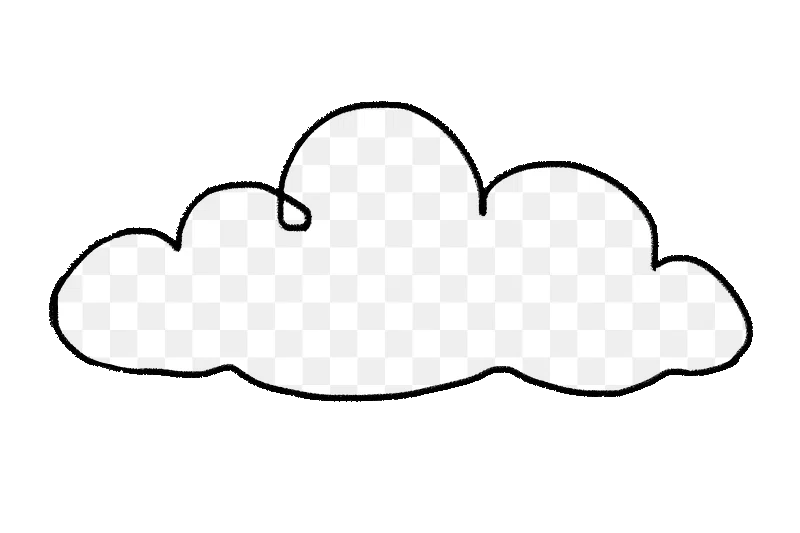
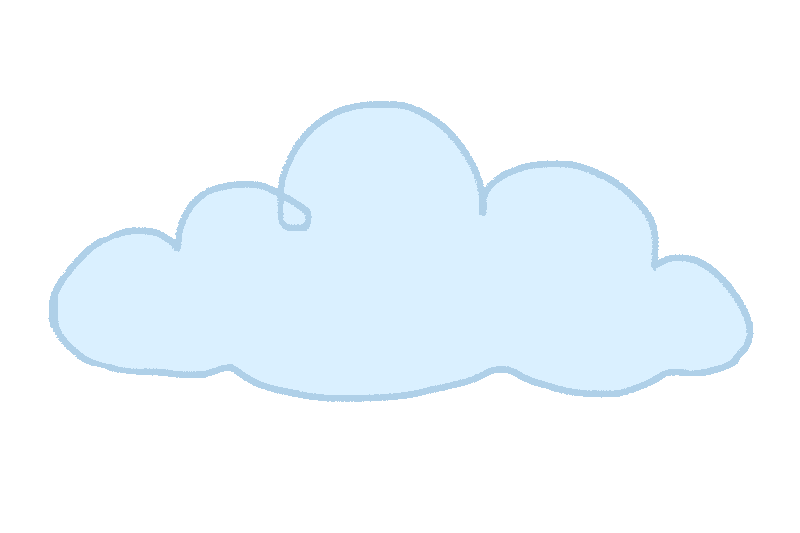
Opaque overlapping cloud clusters + AI lightbulb illustration
Clouds:
- Fully opaque (0.96 globalAlpha) so overlapping looks solid and natural
- Clusters always spawn with 2-3 clouds side-overlapping each other
- Leader + side companion offset horizontally, optional third from opposite side
- 12 cloud pool with 5-band scatter distribution across viewport width
- Light sky blue fill (218,240,255), very light border, transparent exterior

AI lightbulb (bottom-right bg-scene):
- assets/ai-doodle.png: black outline recolored to site green (#2d5a27), transparent bg/interior
- Placed at SVG x=1235 y=690, 160x107px
- Wire 4: dashed gradient line from bulb top (1315,690) up to server rack (1315,312)
- Junction dot at wire origin, gradient fades toward rack

Claude-Session: https://claude.ai/code/session_01TQnFjaHTvdoopMFgx9UFgF

Changed region(s): [[0.0625, 0.1801, 0.9688, 0.7805]]

diff --git a/script.js b/script.js
@@ -145,21 +145,19 @@ if (canvas && !window.location.pathname.includes("admin")) {
   }
 
   class PngCloud {
-    constructor(scatter = false) {
-      this.scale   = Math.random() * 0.52 + 0.22;  // 0.22–0.74 — varied sizes
-      this.speed   = Math.random() * 0.32 + 0.10;
-      this.opacity = Math.random() * 0.30 + 0.45;  // 0.45–0.75
-      this.y = Math.random() * window.innerHeight * 0.72 + 30;
+    constructor(x, y, scale, speed) {
+      this.scale = scale  ?? (Math.random() * 0.48 + 0.28);  // 0.28–0.76
+      this.speed = speed  ?? (Math.random() * 0.28 + 0.12);
+      this.opacity = 0.96; // fully opaque — overlapping clouds should look solid
+      this.y = y ?? (Math.random() * window.innerHeight * 0.78 + 20);
       const hw = (CLOUD_W * this.scale) / 2;
-      this.x = scatter
-        ? Math.random() * (window.innerWidth + hw * 2) - hw
-        : window.innerWidth + hw + 20;
-      const n = Math.floor(Math.random() * 3) + 1;
+      this.x = x ?? (Math.random() * (window.innerWidth + hw * 2) - hw);
+      const n = Math.floor(Math.random() * 2) + 1;
       this.birds = [];
       for (let i = 0; i < n; i++) {
-        const bx = this.x + (Math.random() - 0.5) * CLOUD_W * this.scale * 1.2;
-        const by = this.y - CLOUD_H * this.scale * 0.38 - Math.random() * 45;
-        this.birds.push(new DoodleBird(bx, by, this.speed + (Math.random() - 0.5) * 0.08));
+        const bx = this.x + (Math.random() - 0.5) * CLOUD_W * this.scale * 1.1;
+        const by = this.y - CLOUD_H * this.scale * 0.42 - Math.random() * 38;
+        this.birds.push(new DoodleBird(bx, by, this.speed + (Math.random() - 0.5) * 0.07));
       }
     }
     updateColor() {}
@@ -176,48 +174,62 @@ if (canvas && !window.location.pathname.includes("admin")) {
       const iw = CLOUD_W * this.scale, ih = CLOUD_H * this.scale;
       ctx.save();
       ctx.globalAlpha = this.opacity;
-      ctx.shadowColor    = "rgba(0,0,0,0.22)";
-      ctx.shadowBlur     = 18 * this.scale;
-      ctx.shadowOffsetX  = 2;
-      ctx.shadowOffsetY  = 7 * this.scale;
+      ctx.shadowColor   = "rgba(0,0,0,0.18)";
+      ctx.shadowBlur    = 14 * this.scale;
+      ctx.shadowOffsetX = 1;
+      ctx.shadowOffsetY = 5 * this.scale;
       ctx.drawImage(cloudImg, this.x - iw / 2, this.y - ih / 2, iw, ih);
       ctx.restore();
-      this.birds.forEach(b => b.draw(this.opacity * 0.75));
+      this.birds.forEach(b => b.draw(0.72));
     }
   }
 
-  function spawnCloud(scatter = false) {
-    const c = new PngCloud(scatter);
-    const group = [c];
-    // 35% chance: add 1-2 companion clouds close by for natural layered overlap
-    if (Math.random() < 0.35) {
-      const companion = new PngCloud(scatter);
-      companion.x = c.x + (Math.random() - 0.4) * 130;
-      companion.y = c.y + (Math.random() - 0.5) * 90;
-      companion.scale = c.scale * (Math.random() * 0.35 + 0.55);
-      companion.speed = c.speed + (Math.random() - 0.5) * 0.06;
-      group.push(companion);
-      if (Math.random() < 0.40) {
-        const c2 = new PngCloud(scatter);
-        c2.x = c.x + (Math.random() - 0.5) * 200;
-        c2.y = c.y + (Math.random() - 0.5) * 70;
-        c2.scale = c.scale * (Math.random() * 0.3 + 0.45);
-        c2.speed = c.speed + (Math.random() - 0.5) * 0.05;
-        group.push(c2);
-      }
+  // Build clusters: leader + 1-2 side-overlapping companions
+  // Groups placed at left, mid-left, centre, mid-right, right bands on scatter
+  function spawnCluster(scatter = false) {
+    const vw = window.innerWidth;
+    // For scatter: pick a band (0-4) so clusters spread left/mid/right
+    let baseX;
+    if (scatter) {
+      const band = Math.floor(Math.random() * 5);  // 0..4
+      baseX = (band / 4) * vw;
+    } else {
+      baseX = vw + 260;  // spawn off right edge
     }
+    const baseY   = Math.random() * window.innerHeight * 0.72 + 30;
+    const baseScl = Math.random() * 0.38 + 0.34;  // 0.34–0.72
+    const baseSpd = Math.random() * 0.24 + 0.12;
+
+    const leader = new PngCloud(baseX, baseY, baseScl, baseSpd);
+    const group  = [leader];
+
+    // Always add at least one side companion (left or right overlap)
+    const sideDir   = Math.random() < 0.5 ? 1 : -1;
+    const sideOffX  = sideDir * (CLOUD_W * baseScl * (Math.random() * 0.28 + 0.22));
+    const sideOffY  = (Math.random() - 0.5) * 55;
+    const sideScale = baseScl * (Math.random() * 0.32 + 0.58);
+    group.push(new PngCloud(baseX + sideOffX, baseY + sideOffY, sideScale, baseSpd + (Math.random()-0.5)*0.05));
+
+    // 55% chance: third cloud from opposite side for sandwich overlap
+    if (Math.random() < 0.55) {
+      const offX2  = -sideDir * (CLOUD_W * baseScl * (Math.random() * 0.20 + 0.14));
+      const offY2  = (Math.random() - 0.5) * 45;
+      const scl2   = baseScl * (Math.random() * 0.28 + 0.44);
+      group.push(new PngCloud(baseX + offX2, baseY + offY2, scl2, baseSpd + (Math.random()-0.5)*0.04));
+    }
+
     return group;
   }
 
-  const TARGET = 10;
+  const TARGET = 12;
   let clouds = [];
-  while (clouds.length < TARGET) clouds.push(...spawnCloud(true));
+  while (clouds.length < TARGET) clouds.push(...spawnCluster(true));
   globalParticlesArray = clouds;
 
   function animate() {
     ctx.clearRect(0, 0, window.innerWidth, window.innerHeight);
     clouds = clouds.filter(c => !c.isOffscreen());
-    while (clouds.length < TARGET) clouds.push(...spawnCloud(false));
+    while (clouds.length < TARGET) clouds.push(...spawnCluster(false));
     clouds.forEach(c => { c.update(); c.draw(); });
     requestAnimationFrame(animate);
   }

diff --git a/index.html b/index.html
@@ -49,8 +49,13 @@
           <feTurbulence type="fractalNoise" baseFrequency="0.04" numOctaves="3" seed="7" result="n"/>
           <feDisplacementMap in="SourceGraphic" in2="n" scale="2.5" xChannelSelector="R" yChannelSelector="G"/>
         </filter>
-        <!-- Wire 2: fades from right cloud toward centre -->
+        <!-- Wire 2: fades from right server rack toward centre -->
         <linearGradient id="gW2" gradientUnits="userSpaceOnUse" x1="1252" y1="240" x2="860" y2="240">
+          <stop offset="0%"   stop-color="#2d5a27" stop-opacity="0.42"/>
+          <stop offset="100%" stop-color="#2d5a27" stop-opacity="0"/>
+        </linearGradient>
+        <!-- Wire 4: AI bulb bottom-right → up to server rack, fades toward rack -->
+        <linearGradient id="gW4" gradientUnits="userSpaceOnUse" x1="1315" y1="690" x2="1315" y2="310">
           <stop offset="0%"   stop-color="#2d5a27" stop-opacity="0.42"/>
           <stop offset="100%" stop-color="#2d5a27" stop-opacity="0"/>
         </linearGradient>
@@ -59,17 +64,23 @@
       <!-- ══ WIRES ══ -->
       <!-- Wire 1: laptop top-centre → <AZ/> logo in nav -->
       <polyline points="163,280 163,40 72,40" stroke="#2d5a27" stroke-width="1.5" stroke-dasharray="6 4" opacity="0.42"/>
-      <!-- Wire 2: right API cloud left edge → fades toward centre (no centre node) -->
+      <!-- Wire 2: right server rack left edge → fades toward centre -->
       <line x1="1252" y1="240" x2="860" y2="240" stroke="url(#gW2)" stroke-width="1.5" stroke-dasharray="6 4"/>
+      <!-- Wire 4: AI bulb top → up to server rack bottom -->
+      <line x1="1315" y1="690" x2="1315" y2="312" stroke="url(#gW4)" stroke-width="1.5" stroke-dasharray="6 4"/>
 
       <!-- Endpoint / junction dots -->
       <circle cx="163"  cy="280" r="3"   fill="#2d5a27" opacity="0.45"/>
       <circle cx="128"  cy="40"  r="3"   fill="#2d5a27" opacity="0.5"/>
       <circle cx="72"   cy="40"  r="4.5" fill="#2d5a27" opacity="0.45"/>
       <circle cx="1252" cy="240" r="3.5" fill="#2d5a27" opacity="0.45"/>
+      <circle cx="1315" cy="690" r="3.5" fill="#2d5a27" opacity="0.45"/>
 
       <!-- ══ ILLUSTRATION 1: Laptop (left side) — doodle style, 3/4 perspective ══ -->
       <image href="./assets/laptop-doodle.png" x="18" y="278" width="220" height="166" opacity="0.85"/>
+
+      <!-- ══ ILLUSTRATION 4: AI Lightbulb (bottom-right) ══ -->
+      <image href="./assets/ai-doodle.png" x="1235" y="690" width="160" height="107" opacity="0.82"/>
 
       <!-- ══ ILLUSTRATION 2: Server Rack (right side) ══ -->
       <g transform="translate(1218, 168)" stroke="#2d5a27" stroke-linecap="round" stroke-linejoin="round">
